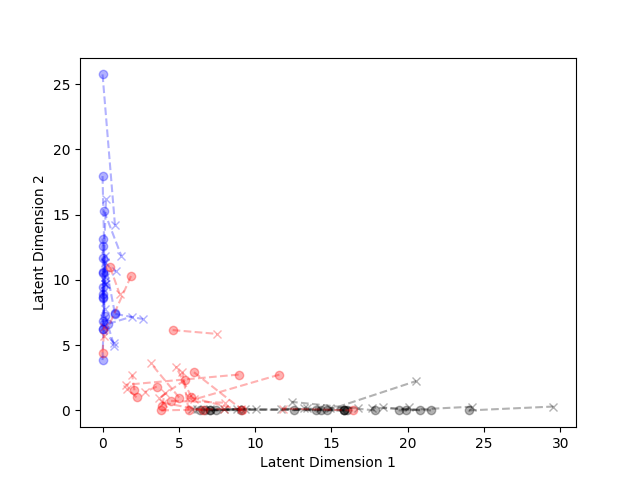
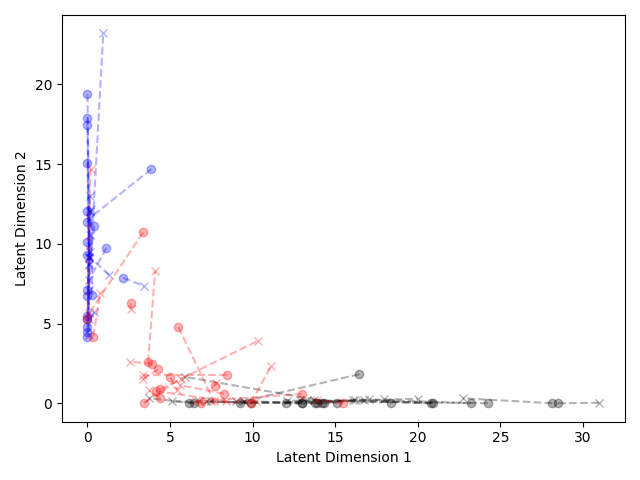
Use tight_layout for figures

diff --git a/xai/experiments/latent_space_distribution/plot_utils.py b/xai/experiments/latent_space_distribution/plot_utils.py
@@ -33,6 +33,7 @@ def plot_latent_space_2d(latents: torch.Tensor,
     plt.ylabel('Latent Dimension 2')
     # plt.title("Input digits in the model's latent space")
     plt.legend()
+    fig.tight_layout()
     return fig
 
 
@@ -53,6 +54,7 @@ def plot_latent_space_3d(latents: torch.Tensor,
     plt.ylabel('Latent Dimension 2')
     # plt.title("Input digits in the model's latent space")
     plt.legend()
+    fig.tight_layout()
     return fig
 
 
@@ -78,6 +80,7 @@ def plot_latent_shift(latents: torch.Tensor,
     plt.xlabel('Latent Dimension 1')
     plt.ylabel('Latent Dimension 2')
     # plt.title("Input digit's movement under simplex")
+    fig.tight_layout()
     return fig
 
 
@@ -106,6 +109,7 @@ def plot_latent_shift_3d(latents: torch.Tensor,
     ax.set_ylabel('Latent Dimension 2')
     ax.set_zlabel('Latent Dimension 3')
     # plt.title("Input digit's movement under simplex")
+    fig.tight_layout()
     return fig
 
 

diff --git a/xai/experiments/latent_space_3d/generate_plot_script.py b/xai/experiments/latent_space_3d/generate_plot_script.py
@@ -86,4 +86,4 @@ residual_plot_fname = "residuals_3d.png"
 
 residuals = latents - latents_approx
 plot_latent_space_3d(residuals, labels_digits, digits)
-plt.savefig(LATENT_FIGURES_DIR / residual_plot_fname, format='png')
+# plt.savefig(LATENT_FIGURES_DIR / residual_plot_fname, format='png')
